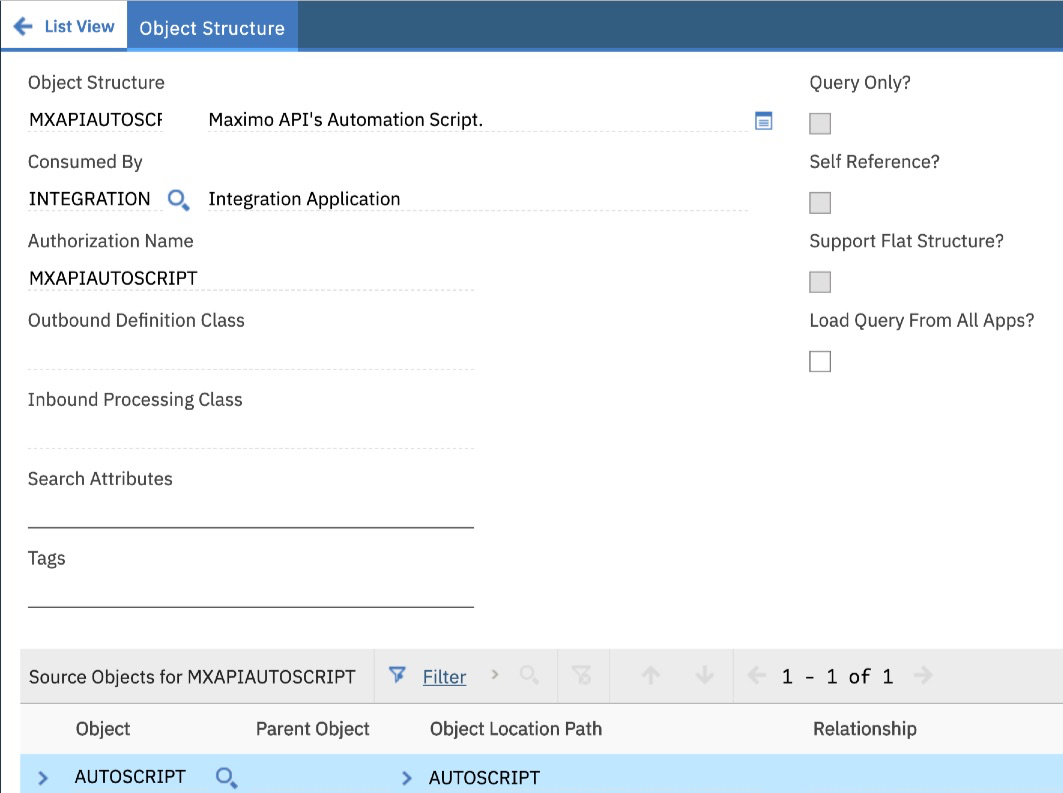
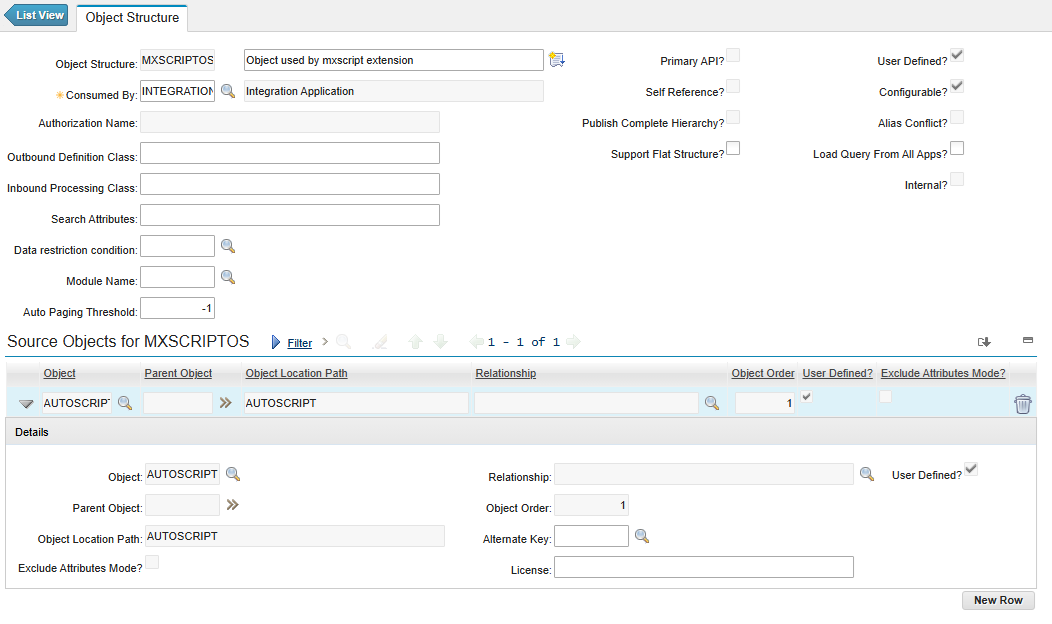
Updated readme to tell the user to use another OS

diff --git a/README.md b/README.md
@@ -71,12 +71,12 @@ You should have access to an instance of IBM Maximo / ICD to manage scripts.
 
 #### Configuring Object Structure
 You must have rights to use an object structure having `AUTOSCRIPT` as its base object. 
->There is an object structure `MXAPIAUTOSCRIPT` created by default. You can use it
+>There is an object structure `MXAPIAUTOSCRIPT` created by default. Do not use it. This will cause issues when uploading scripts to server
 
 If somehow your installation does not have this OS then follow the following steps to create an object structure. 
 1. Goto Object Strcutures
 2. Click on `New Object Structure`
-3. Give it any name e.g. `MXAPIAUTOSCRIPT`. In Consumed by field enter `INTEGRATION`
+3. Give it any name e.g. `MXSCRIPTOS`. In Consumed by field enter `INTEGRATION`
 4. In the source object table click on New Row. Then in that new row select `AUTOSCRIPT` in object field.
 5. Save
 
